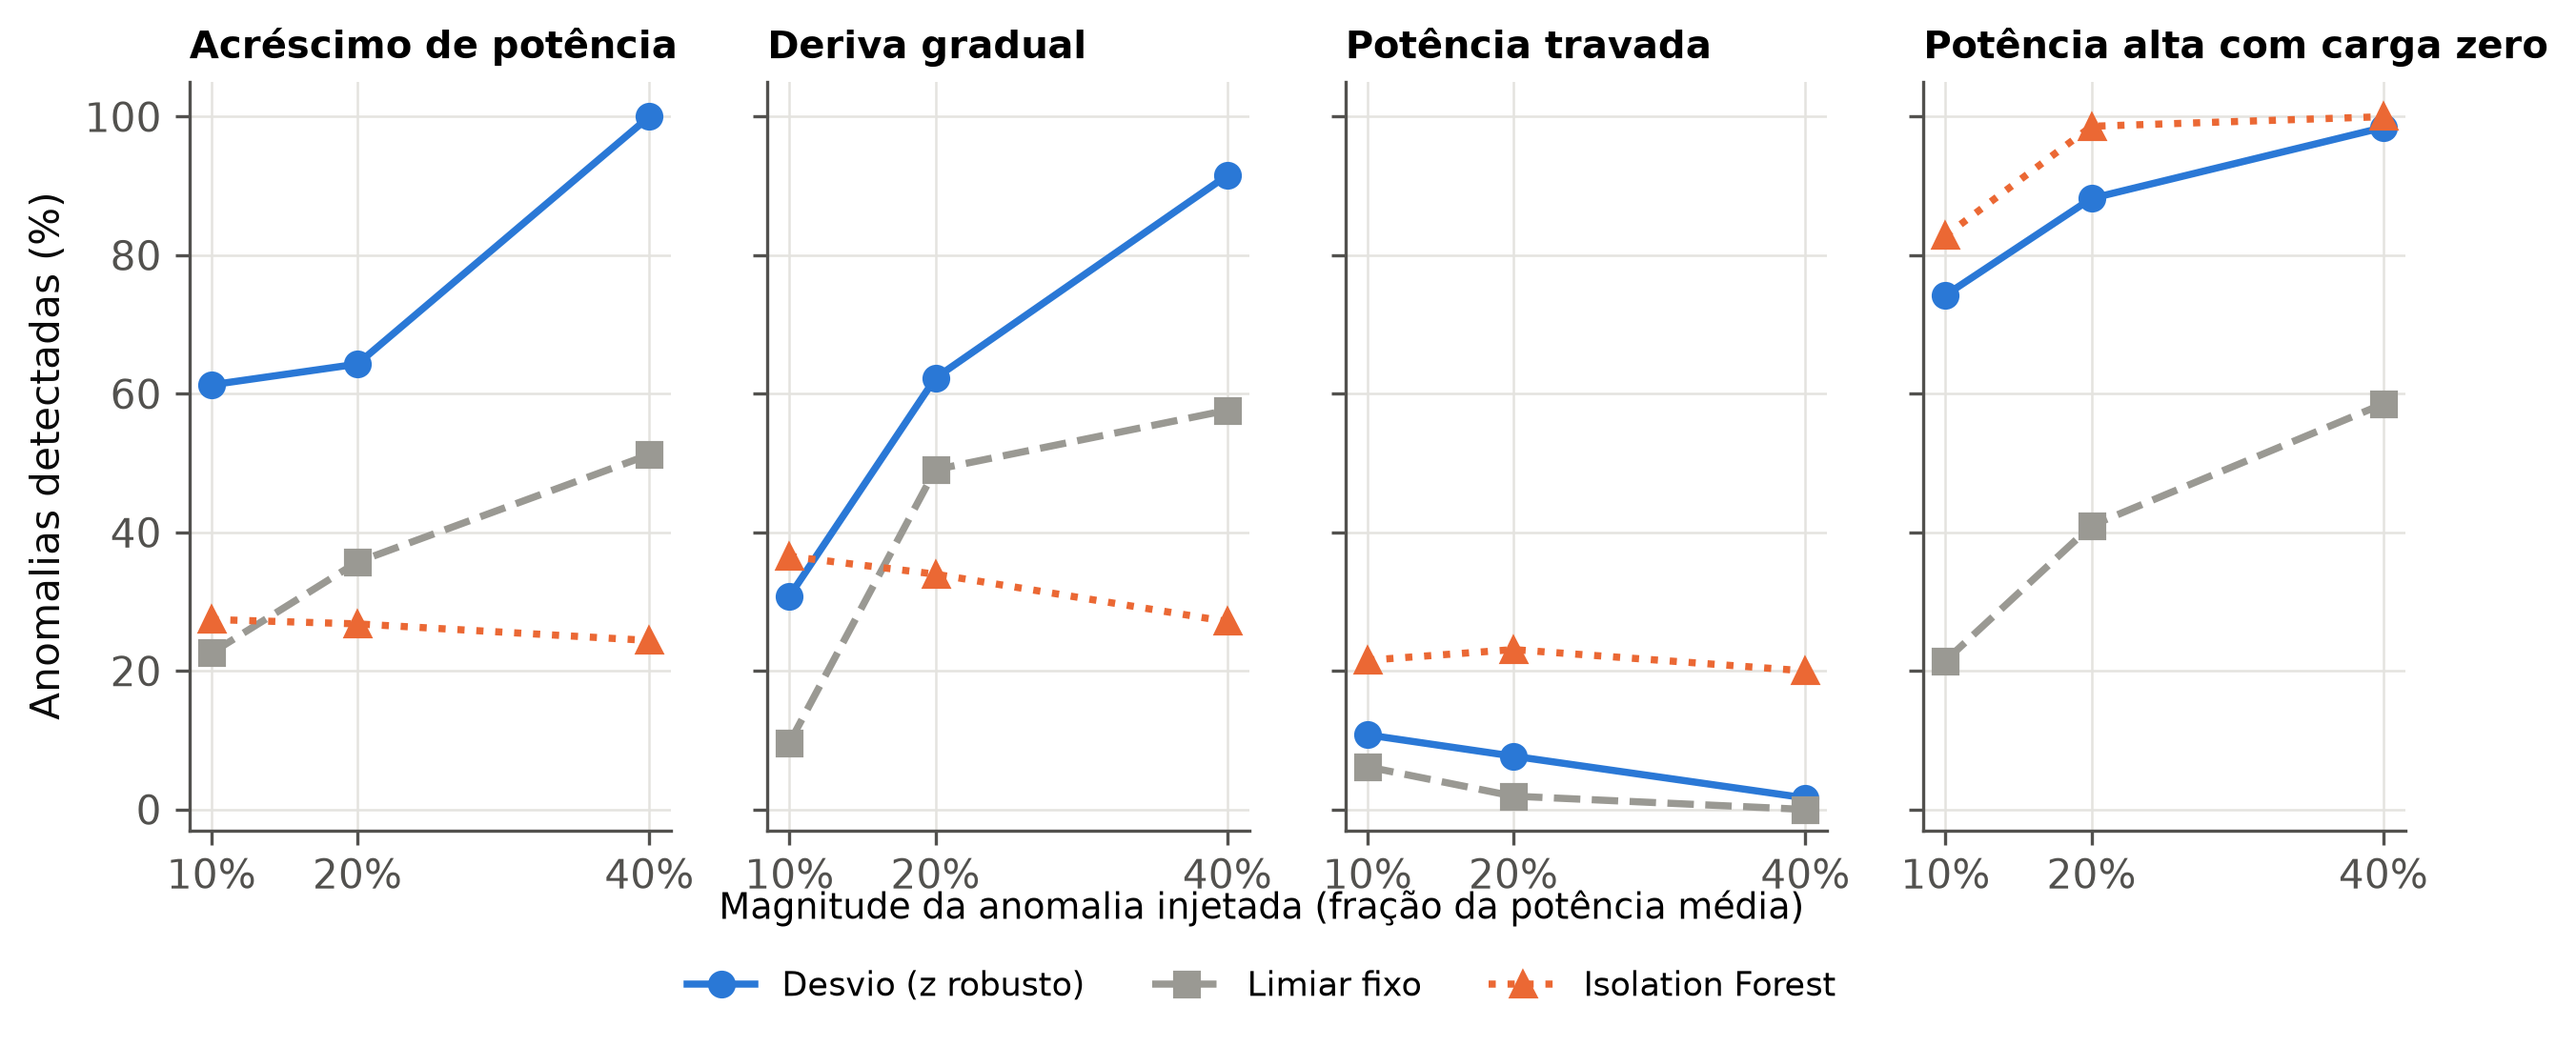
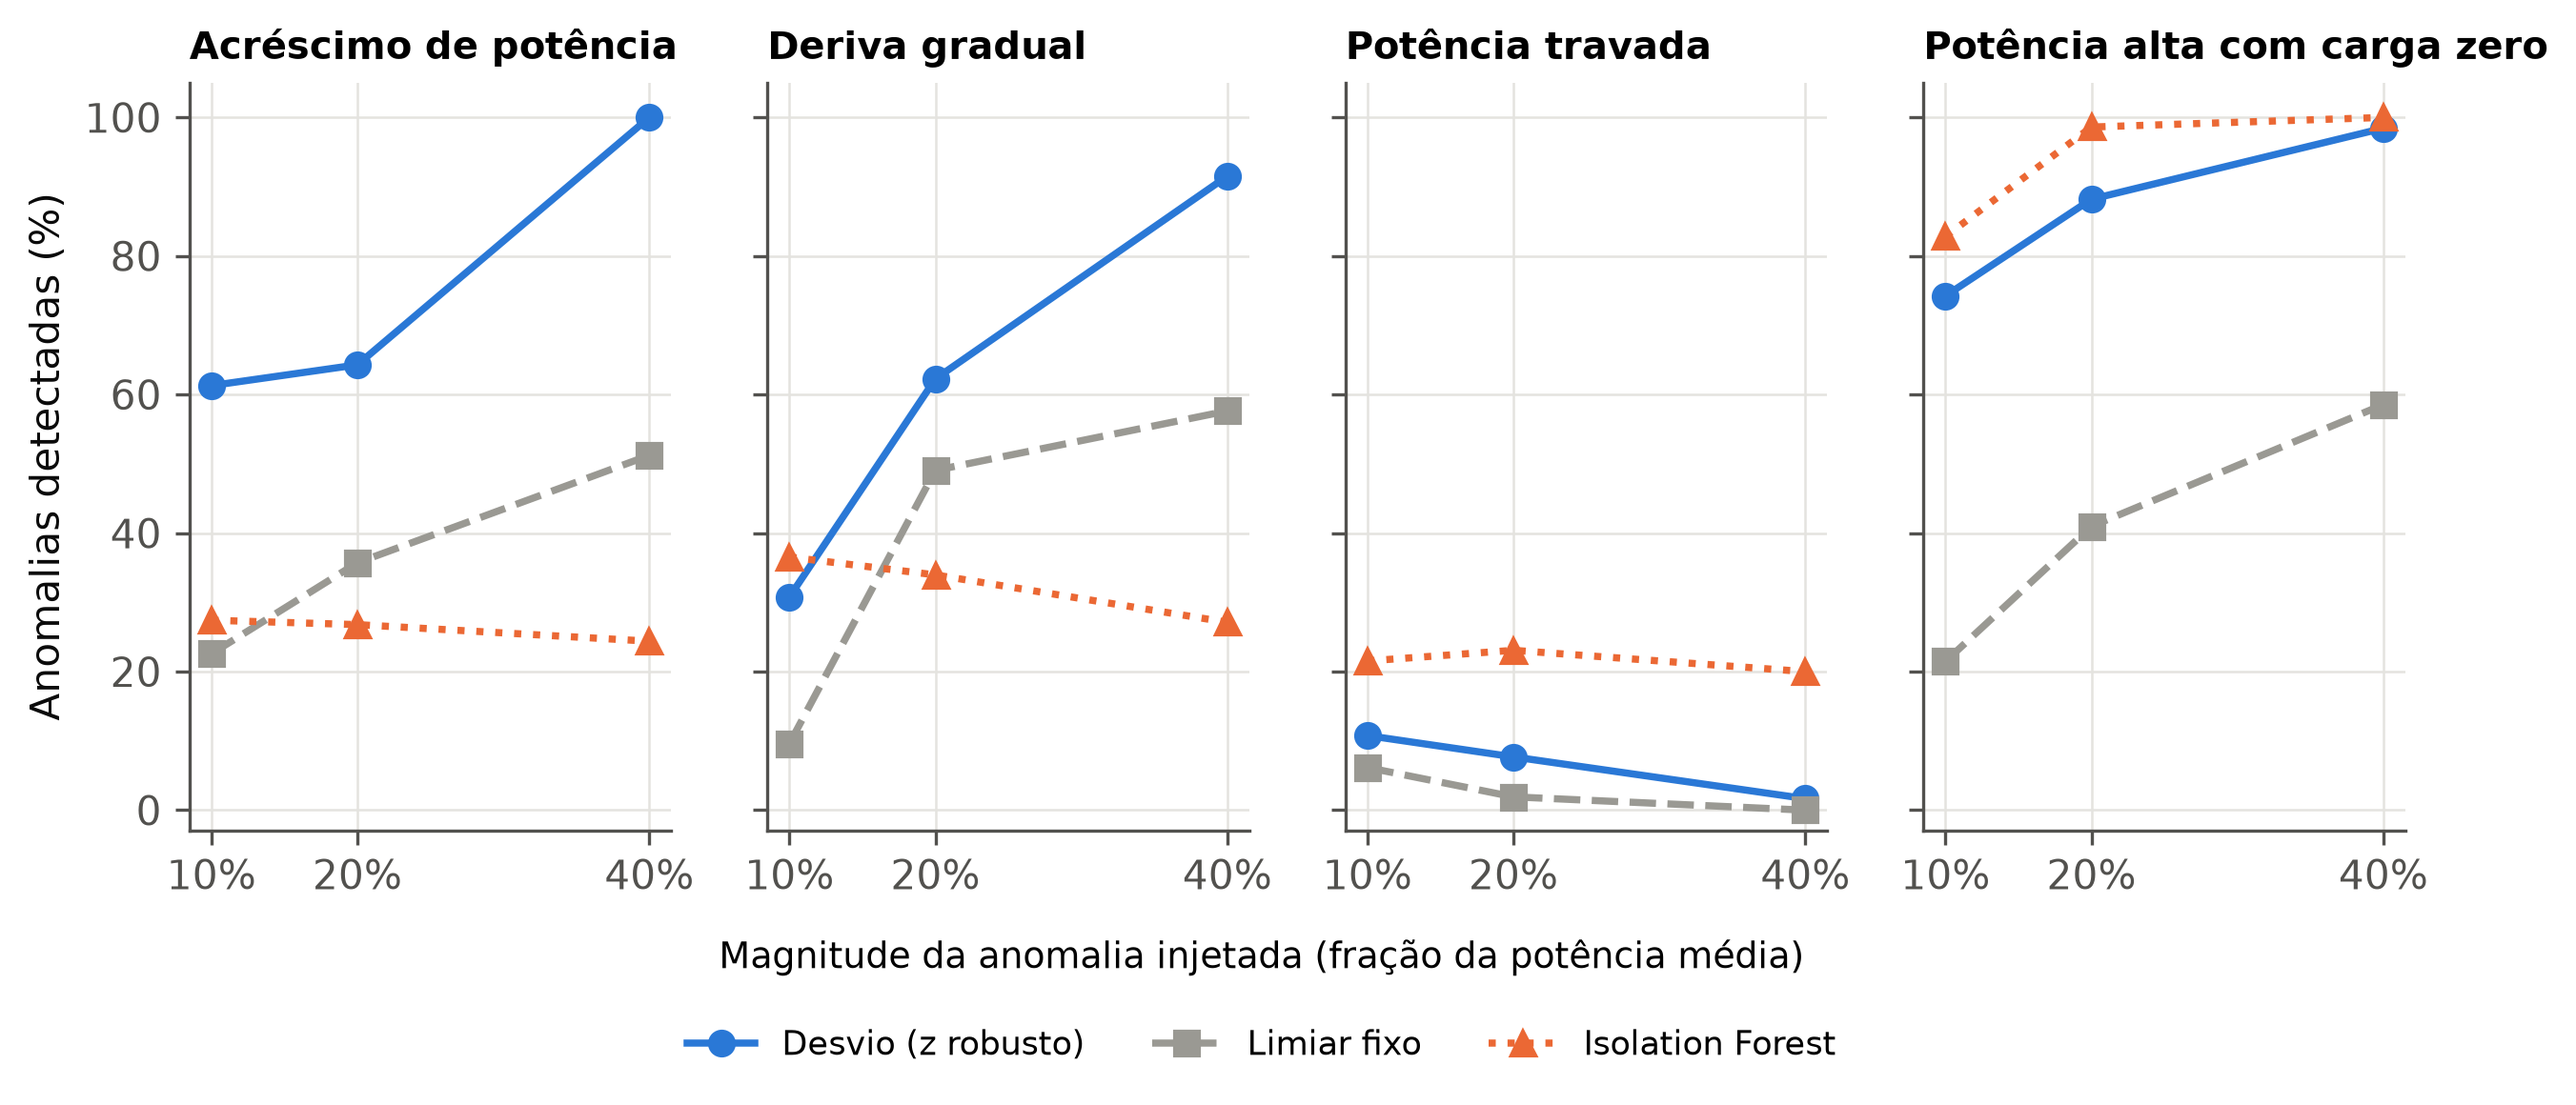
fix: ajusta rótulos dos gráficos de detecção, carga e escala do z

diff --git a/src/energy_monitor/experiments/figures.py b/src/energy_monitor/experiments/figures.py
@@ -516,7 +516,7 @@ def plot_load_effect(e5: dict[str, dict[str, Any]]) -> Figure:
     axis.text(
         len(labels) - 0.5,
         H2_THRESHOLD_PERCENT + 0.3,
-        "limiar da H2: redução de 10%",
+        "redução de 10%",
         ha="right",
         va="bottom",
         fontsize=8,
@@ -643,8 +643,10 @@ def plot_detection_rates(e3: dict[str, Any]) -> Figure:
         axis.set_xticks(percentages, [f"{p:.0f}%" for p in percentages])
         axis.set_ylim(-3, 105)
     axes[0].set_ylabel("Anomalias detectadas (%)")
-    figure.supxlabel("Magnitude da anomalia injetada (fração da potência média)", fontsize=9)
-    bottom_legend(figure, axes[0], 3, -0.1)
+    figure.supxlabel(
+        "Magnitude da anomalia injetada (fração da potência média)", fontsize=9, y=-0.04
+    )
+    bottom_legend(figure, axes[0], 3, -0.16)
     return apply_style(figure)
 
 
@@ -707,7 +709,9 @@ def plot_residual_scale(statistics: dict[str, dict[str, float]], open_threshold:
         f"(mediana {decimal(float(trigger.median()), 1)} W; "
         f"MAD < 0,001 W em {negligible} servidores)"
     )
-    axis.set_xlabel("Servidores do D1, em ordem crescente")
+    axis.set_xlabel(
+        "Servidores do D1, em ordem crescente (valores abaixo de 0,01 W exibidos em 0,01 W)"
+    )
     axis.set_ylabel("Desvio necessário (W, escala logarítmica)")
     axis.set_xticks([])
     axis.grid(axis="x", visible=False)
